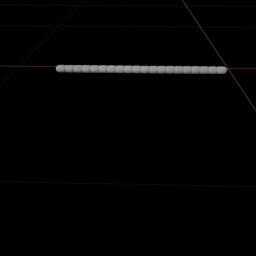
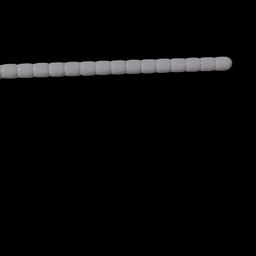
调整了绳子模型中的 joint exculded from articulation，但是问题是会导入 articulation reset 失败。

diff --git a/model_configs.py b/model_configs.py
@@ -50,8 +50,8 @@ LEFT_HAND_CFG = ArticulationCfg(
         articulation_props=sim_utils.ArticulationRootPropertiesCfg(
             fix_root_link=False,
             enabled_self_collisions=False,
-            solver_position_iteration_count=16,
-            solver_velocity_iteration_count=4,
+            solver_position_iteration_count=64,
+            solver_velocity_iteration_count=32,
             sleep_threshold=0.005,
             stabilization_threshold=0.0005,
         ),
@@ -113,8 +113,8 @@ RIGHT_HAND_CFG = ArticulationCfg(
         articulation_props=sim_utils.ArticulationRootPropertiesCfg(
             fix_root_link=False,
             enabled_self_collisions=False,
-            solver_position_iteration_count=16,
-            solver_velocity_iteration_count=8,
+            solver_position_iteration_count=64,
+            solver_velocity_iteration_count=32,
             sleep_threshold=0.005,
             stabilization_threshold=0.0005,
         ),
@@ -184,7 +184,6 @@ ROPE_FIXED_CFG = ArticulationCfg(
     init_state=ArticulationCfg.InitialStateCfg(
         pos=(0.0, 0.0, 0.5),
         rot=(1.0, 0.0, 0.0, 0.0),
-        joint_pos={".*": 0.0},
     ),
 )
 
@@ -213,7 +212,22 @@ ROPE_CFG = ArticulationCfg(
         pos=(0.0, 0.0, 0.5),
         rot=(1.0, 0.0, 0.0, 0.0),
         joint_pos={
-            "joint..:(1)": 0.2,
+            ".*": 0.2,
         },
     ),
+    actuators={
+        "fingers": ImplicitActuatorCfg(
+            joint_names_expr=[".*"],
+            effort_limit={
+                ".*": 0.5,
+            },
+            stiffness={
+                ".*": 5.0,
+            },
+            damping={
+                ".*": 0.5,
+            },
+        ),
+    },
+    soft_joint_pos_limit_factor=1.0,
 )

diff --git a/main.py b/main.py
@@ -21,7 +21,7 @@ import numpy as np
 from my_utils import *
 from socket_manager import Socket_Manager
 from controller import Articulation_Controller, Rigid_Body_Controller
-from model_configs import RIGHT_HAND_CFG, LEFT_HAND_CFG, CROSS_CFG, ROPE_CFG, DOME_LIGHT_CFG
+from model_configs import *
 import keyboard as ky
 
 @configclass
@@ -38,7 +38,7 @@ class SceneCfg(InteractiveSceneCfg):
         prim_path="{ENV_REGEX_NS}/Rope"
     )
     rope.init_state.pos = (-0.1, -0.3, 1.3)
-    rope.init_state.rot = (0.7071, 0.7071, 0.0, 0.0)
+    rope.init_state.rot = (1.0, 0.0, 0.0, 0.0)
     # Articulation
     right_hand: ArticulationCfg = RIGHT_HAND_CFG.replace(
         prim_path="{ENV_REGEX_NS}/right_hand",
@@ -67,11 +67,11 @@ def run_simulator(sim: sim_utils.SimulationContext, scene: InteractiveScene):
     manager.listen()
     left_hand_controller = Articulation_Controller(
         robot=left_hand, root_name='lh_forearm',
-        pos_kp=1000.0, pos_kd=100.0, ore_kp=10.0, ore_kd=1.0
+        pos_kp=1000.0, pos_kd=100.0, ore_kp=50.0, ore_kd=3.0
     )
     right_hand_controller = Articulation_Controller(
         robot=right_hand, root_name='rh_forearm',
-        pos_kp=1000.0, pos_kd=100.0, ore_kp=10.0, ore_kd=1.0
+        pos_kp=1000.0, pos_kd=100.0, ore_kp=50.0, ore_kd=3.0
     )
     while simulation_app.is_running():
         # position, orientation, dof = manager.step()
